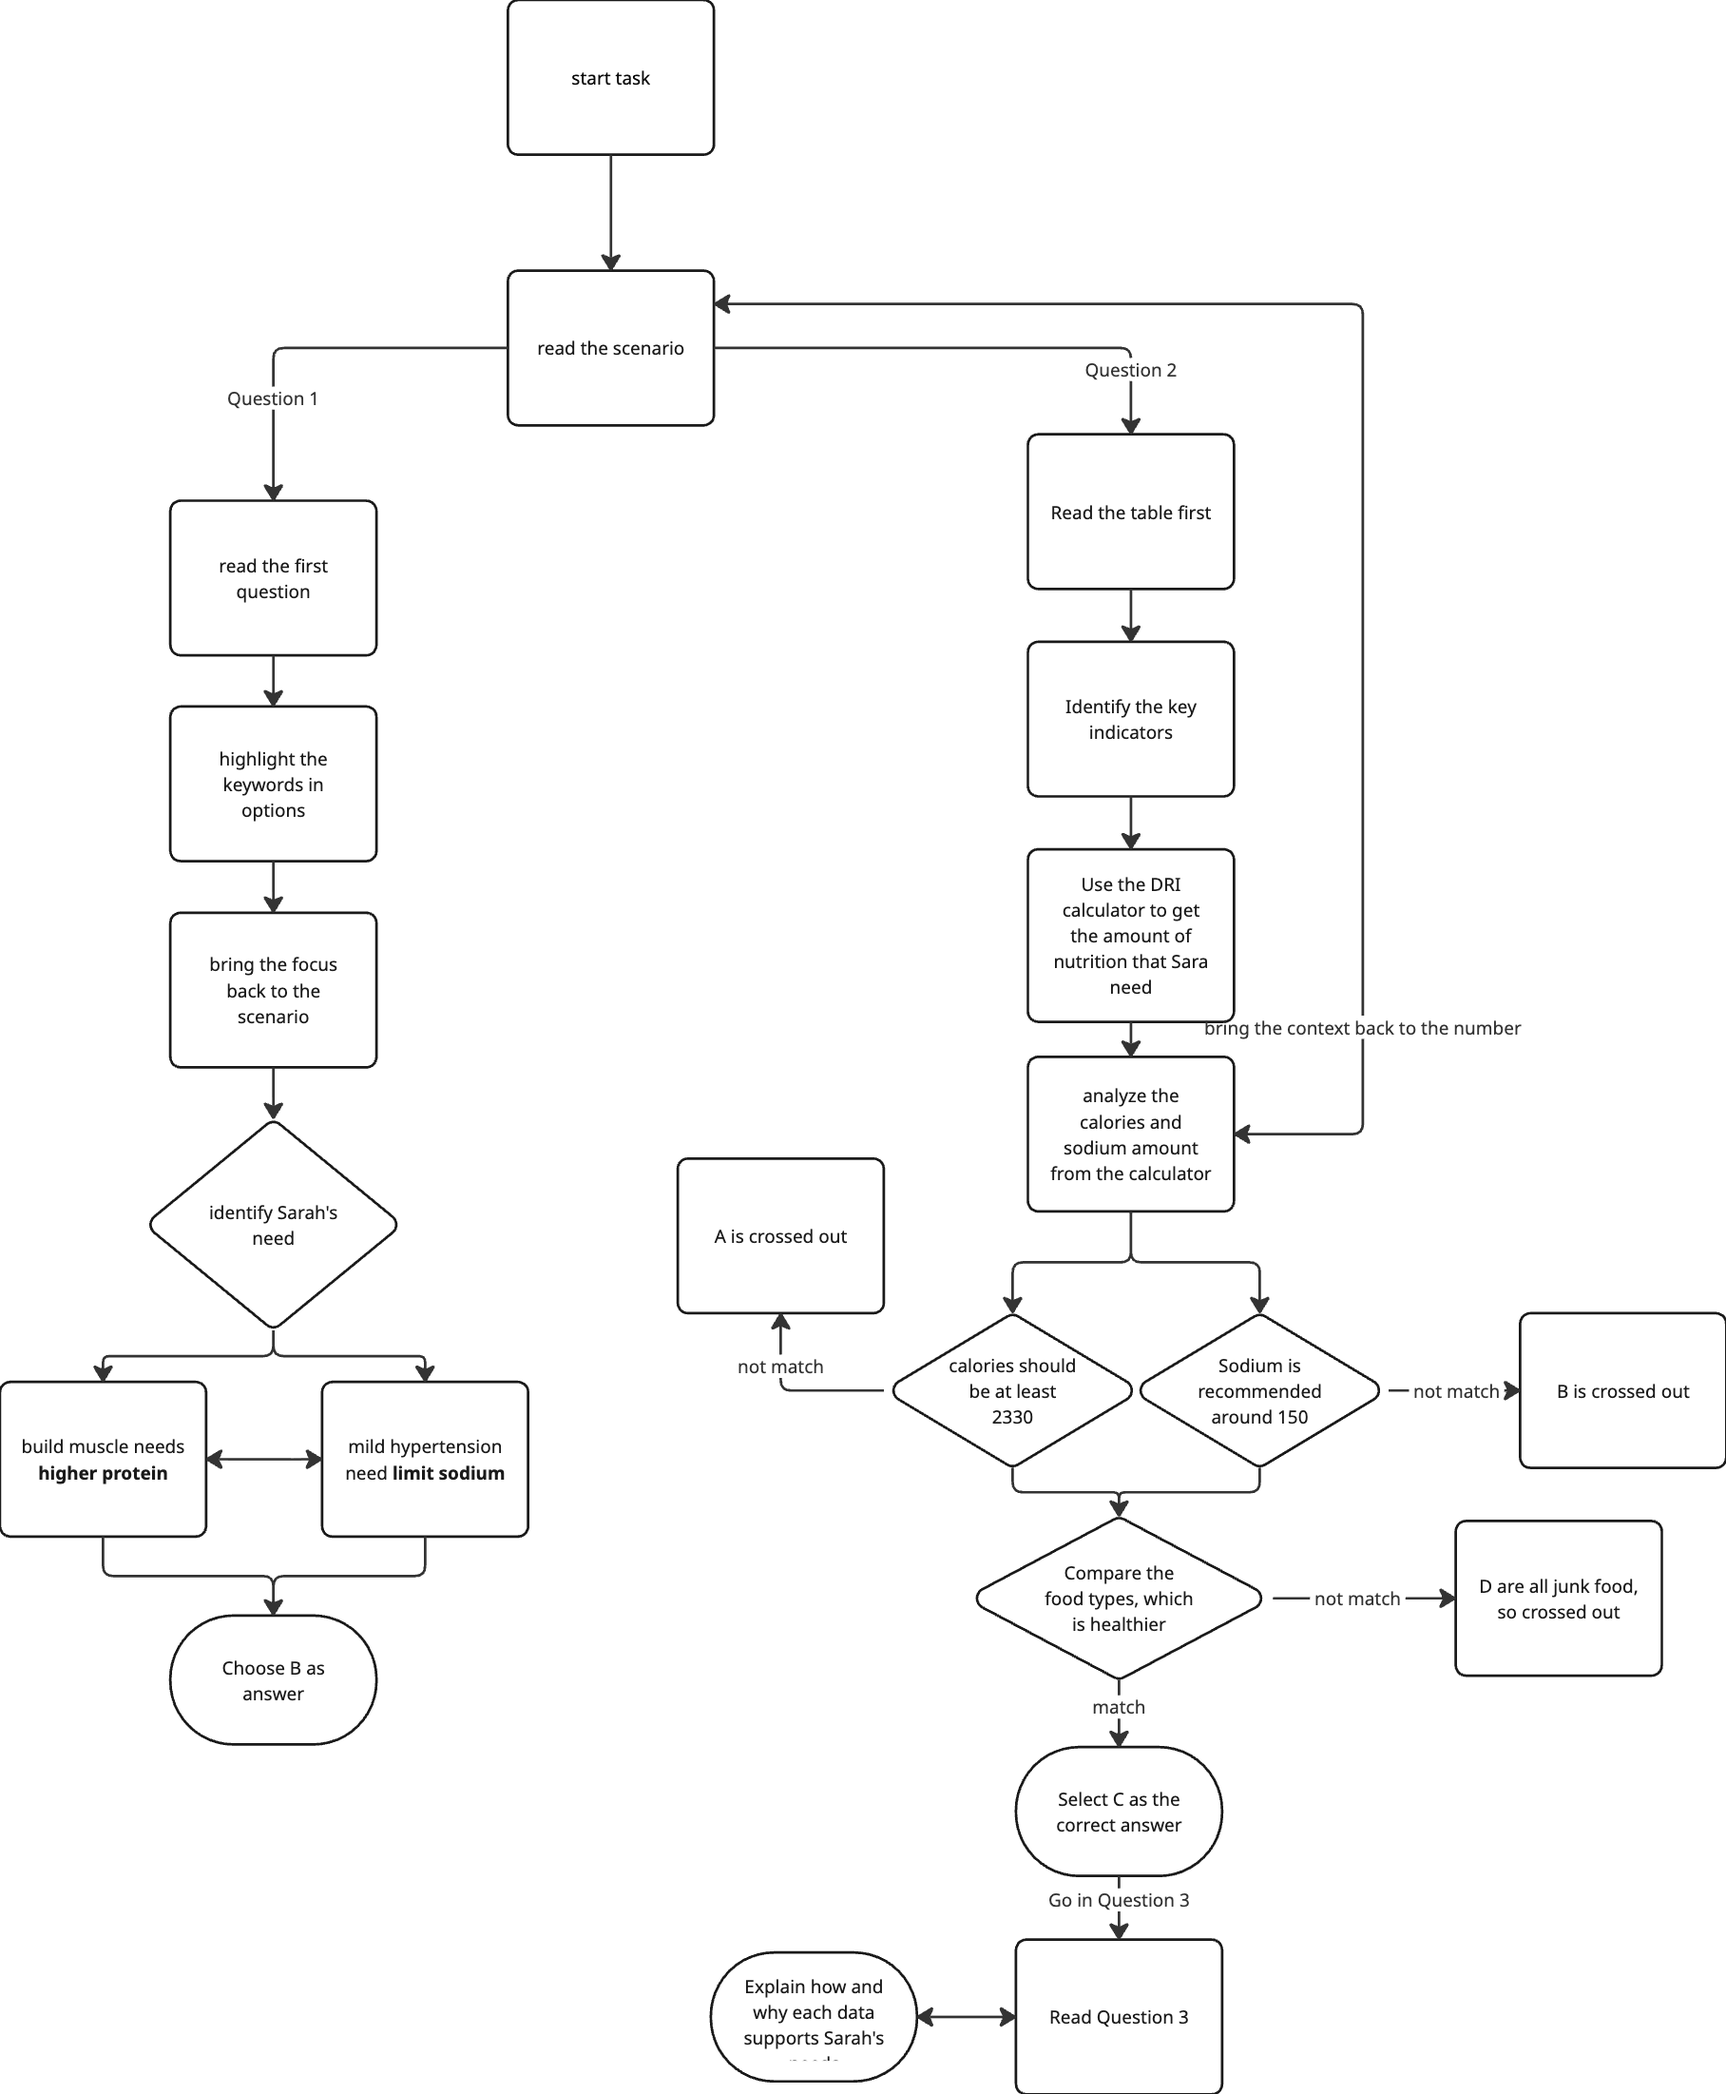
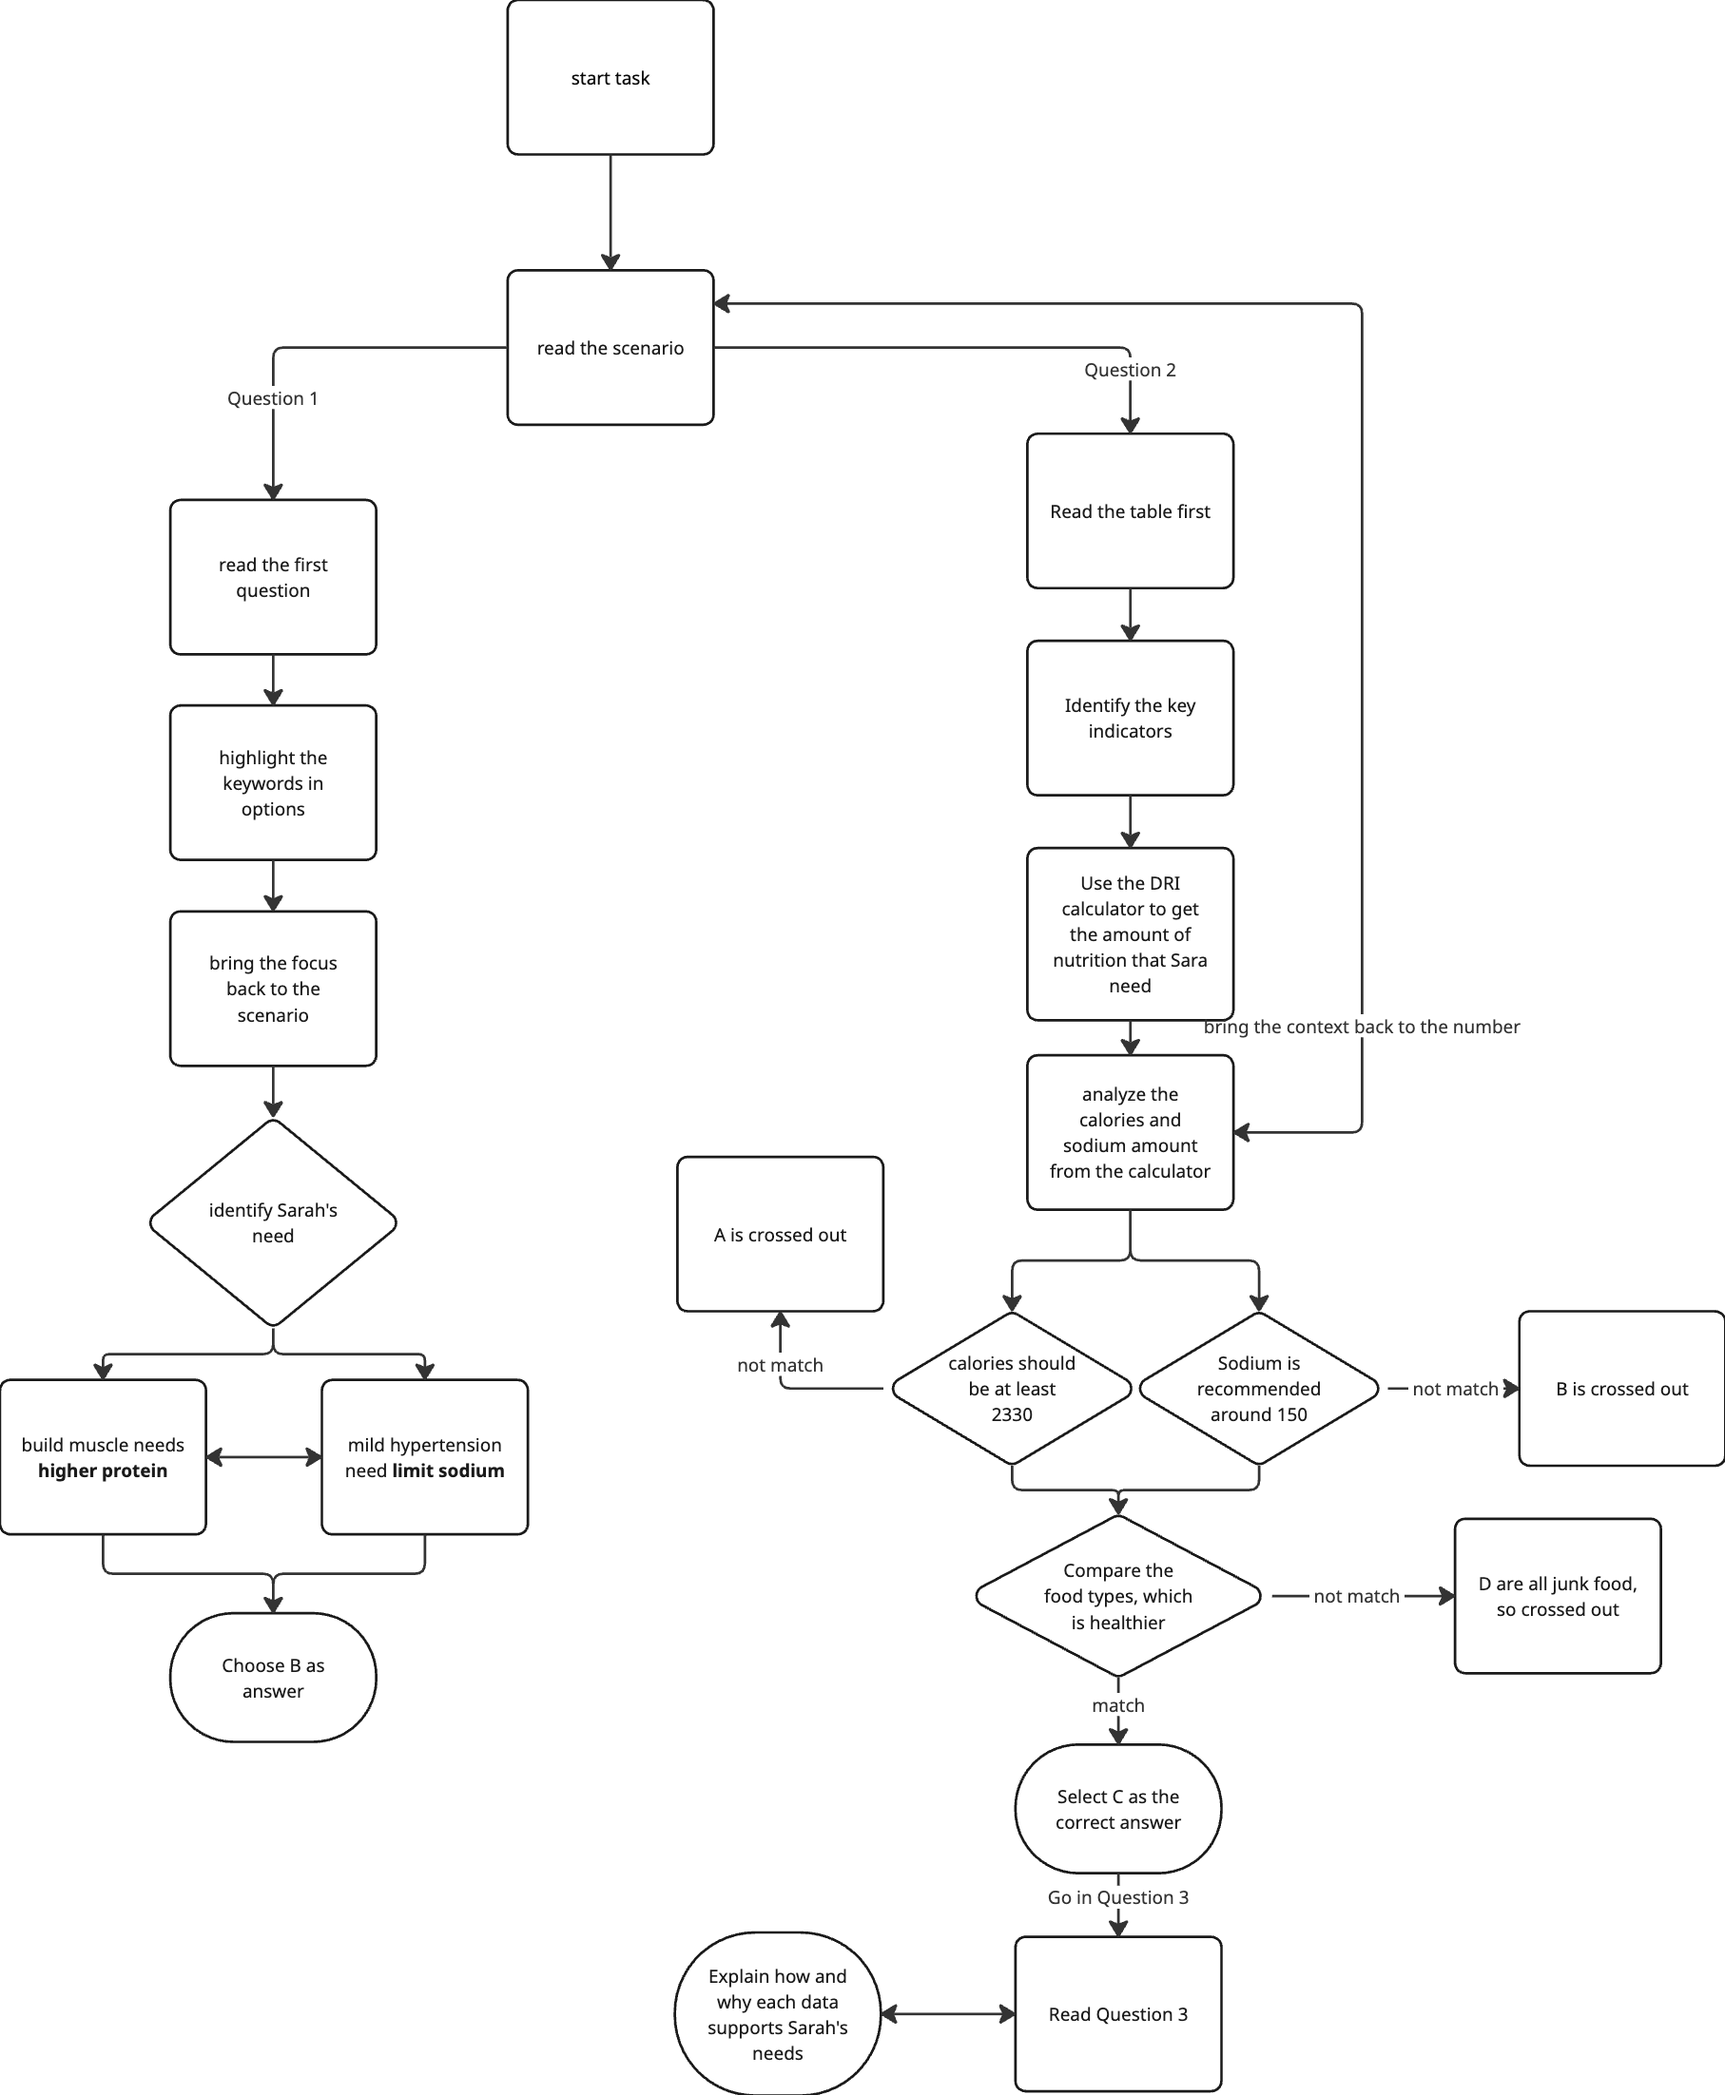
Refine nutrition project previews and metadata

diff --git a/app/globals.css b/app/globals.css
@@ -5227,6 +5227,40 @@ a {
 }
 
 .case-study[data-project-slug='nutrition-literacy']
+  .legacy-columns.is-metadata {
+  gap: 0.875rem;
+}
+
+.case-study[data-project-slug='nutrition-literacy']
+  .legacy-columns.is-metadata
+  .legacy-column {
+  border: 1px solid #ded6ca;
+  border-radius: 1.25rem;
+  box-shadow: none;
+}
+
+.case-study[data-project-slug='nutrition-literacy']
+  .legacy-columns.is-metadata
+  .legacy-rich-text
+  p,
+.case-study[data-project-slug='nutrition-literacy']
+  .legacy-columns.is-metadata
+  .legacy-rich-text
+  li {
+  font-size: 0.875rem;
+  font-weight: 400;
+  line-height: 1.5;
+}
+
+.case-study[data-project-slug='nutrition-literacy']
+  .legacy-columns.is-metadata
+  .legacy-rich-text
+  strong {
+  font-size: inherit;
+  font-weight: 720;
+}
+
+.case-study[data-project-slug='nutrition-literacy']
   .legacy-section[data-source-index='6'],
 .case-study[data-project-slug='nutrition-literacy']
   .legacy-section[data-source-index='8'] {
@@ -5268,6 +5302,7 @@ a {
 .case-study[data-project-slug='nutrition-literacy']
   .legacy-section[data-source-index='13'] {
   gap: clamp(2.5rem, 4vw, 4.5rem);
+  margin-top: clamp(1.75rem, 3vw, 2.75rem);
   border-bottom: 0;
 }
 
@@ -5483,6 +5518,27 @@ a {
   line-height: 1.35;
 }
 
+.nutrition-design-flow
+  > .project-visual-trigger
+  .nutrition-visual-frame
+  ol {
+  grid-template-columns: repeat(4, minmax(0, 1fr));
+}
+
+.nutrition-design-flow
+  > .project-visual-trigger
+  .nutrition-visual-frame
+  li {
+  min-height: 116px;
+}
+
+.nutrition-design-flow
+  > .project-visual-trigger
+  .nutrition-visual-frame
+  li:nth-child(4)::after {
+  display: none;
+}
+
 .nutrition-feedback-loop {
   display: flex;
   gap: 0.55rem;
@@ -5648,6 +5704,67 @@ a {
   width: 124px;
 }
 
+.nutrition-alignment-map
+  > .project-visual-trigger
+  .nutrition-alignment-canvas {
+  min-height: 290px;
+  gap: 0.7rem;
+}
+
+.nutrition-alignment-map
+  > .project-visual-trigger
+  .nutrition-alignment-canvas
+  article {
+  padding: 0.82rem 0.9rem;
+}
+
+.nutrition-alignment-map
+  > .project-visual-trigger
+  .nutrition-alignment-canvas
+  article
+  p {
+  display: none;
+}
+
+.nutrition-alignment-map
+  > .project-visual-trigger
+  .nutrition-alignment-canvas
+  article
+  strong {
+  margin-bottom: 0;
+  font-size: 0.9rem;
+  line-height: 1.3;
+}
+
+.nutrition-alignment-map
+  > .project-visual-trigger
+  .nutrition-learning-hub {
+  gap: 0.4rem;
+  padding: 0.55rem 0.72rem;
+  font-size: 0.76rem;
+}
+
+.nutrition-alignment-map
+  > .project-visual-trigger
+  .nutrition-instruction-card {
+  width: min(74%, 620px);
+}
+
+.nutrition-alignment-map
+  > .project-visual-trigger
+  .nutrition-alignment-canvas
+  > small {
+  width: 102px;
+  font-size: 0.62rem;
+}
+
+.nutrition-alignment-map
+  > .project-visual-trigger
+  .nutrition-alignment-canvas
+  .is-goals-label {
+  width: auto;
+}
+
 .nutrition-cta-findings .nutrition-visual-frame > h3 {
   margin: 0 0 1rem;
   color: #2f3f35;
@@ -5806,6 +5923,13 @@ a {
 
 @media (max-width: 800px) {
   .nutrition-design-flow ol {
+    grid-template-columns: repeat(2, minmax(0, 1fr));
+  }
+
+  .nutrition-design-flow
+    > .project-visual-trigger
+    .nutrition-visual-frame
+    ol {
     grid-template-columns: repeat(2, minmax(0, 1fr));
   }
 
